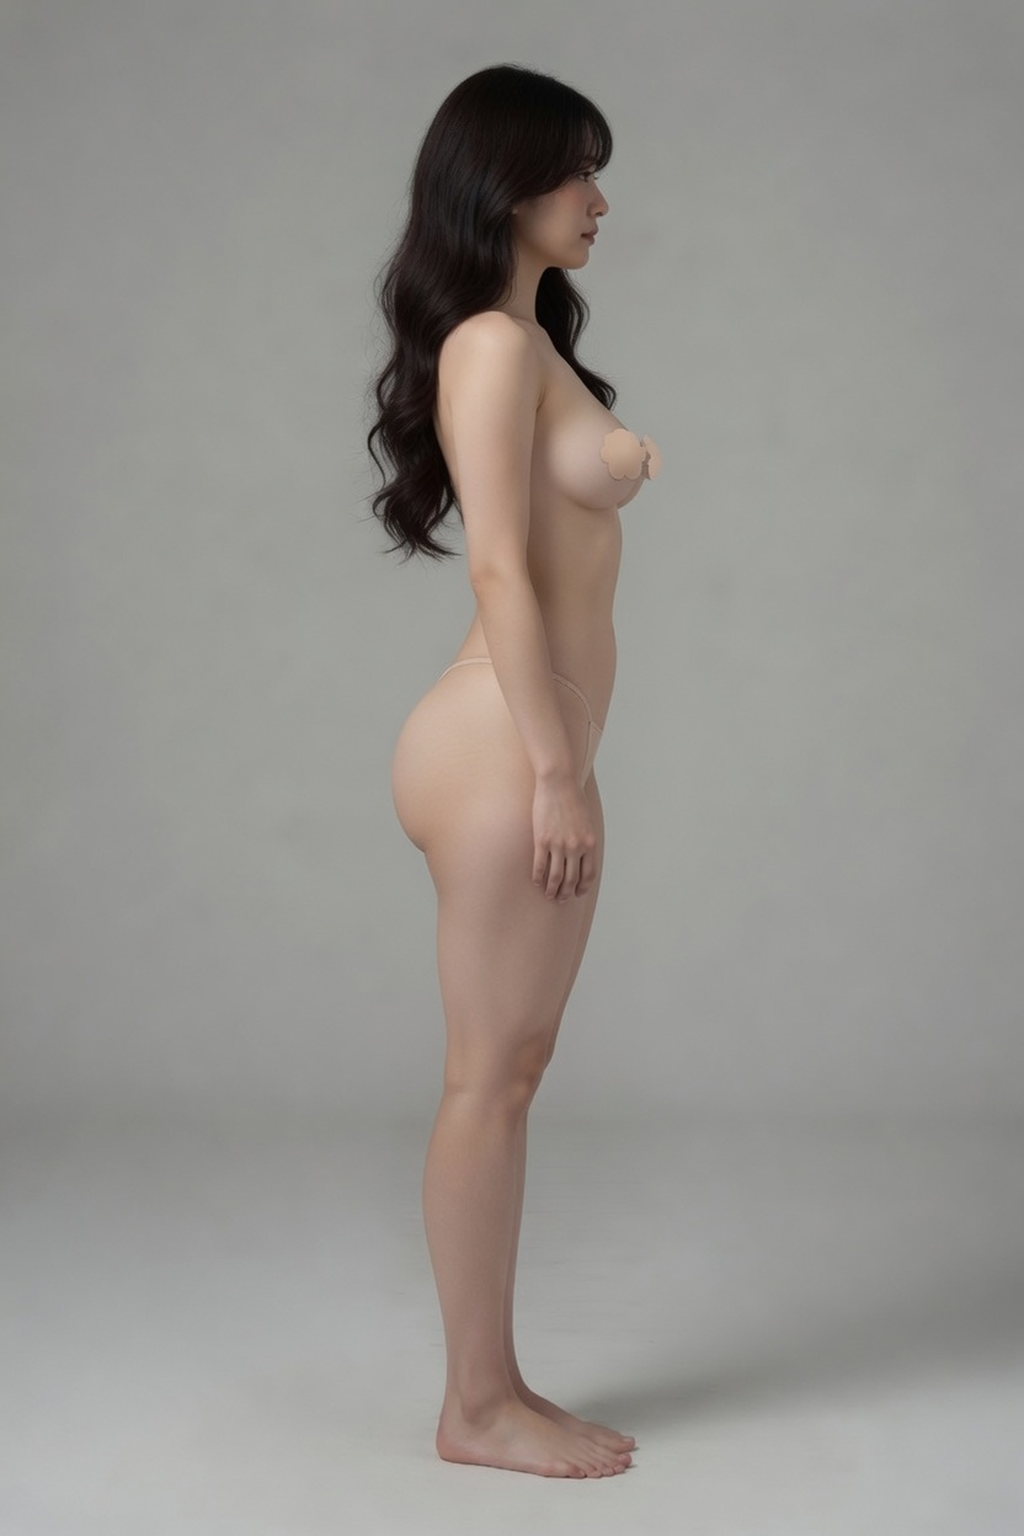
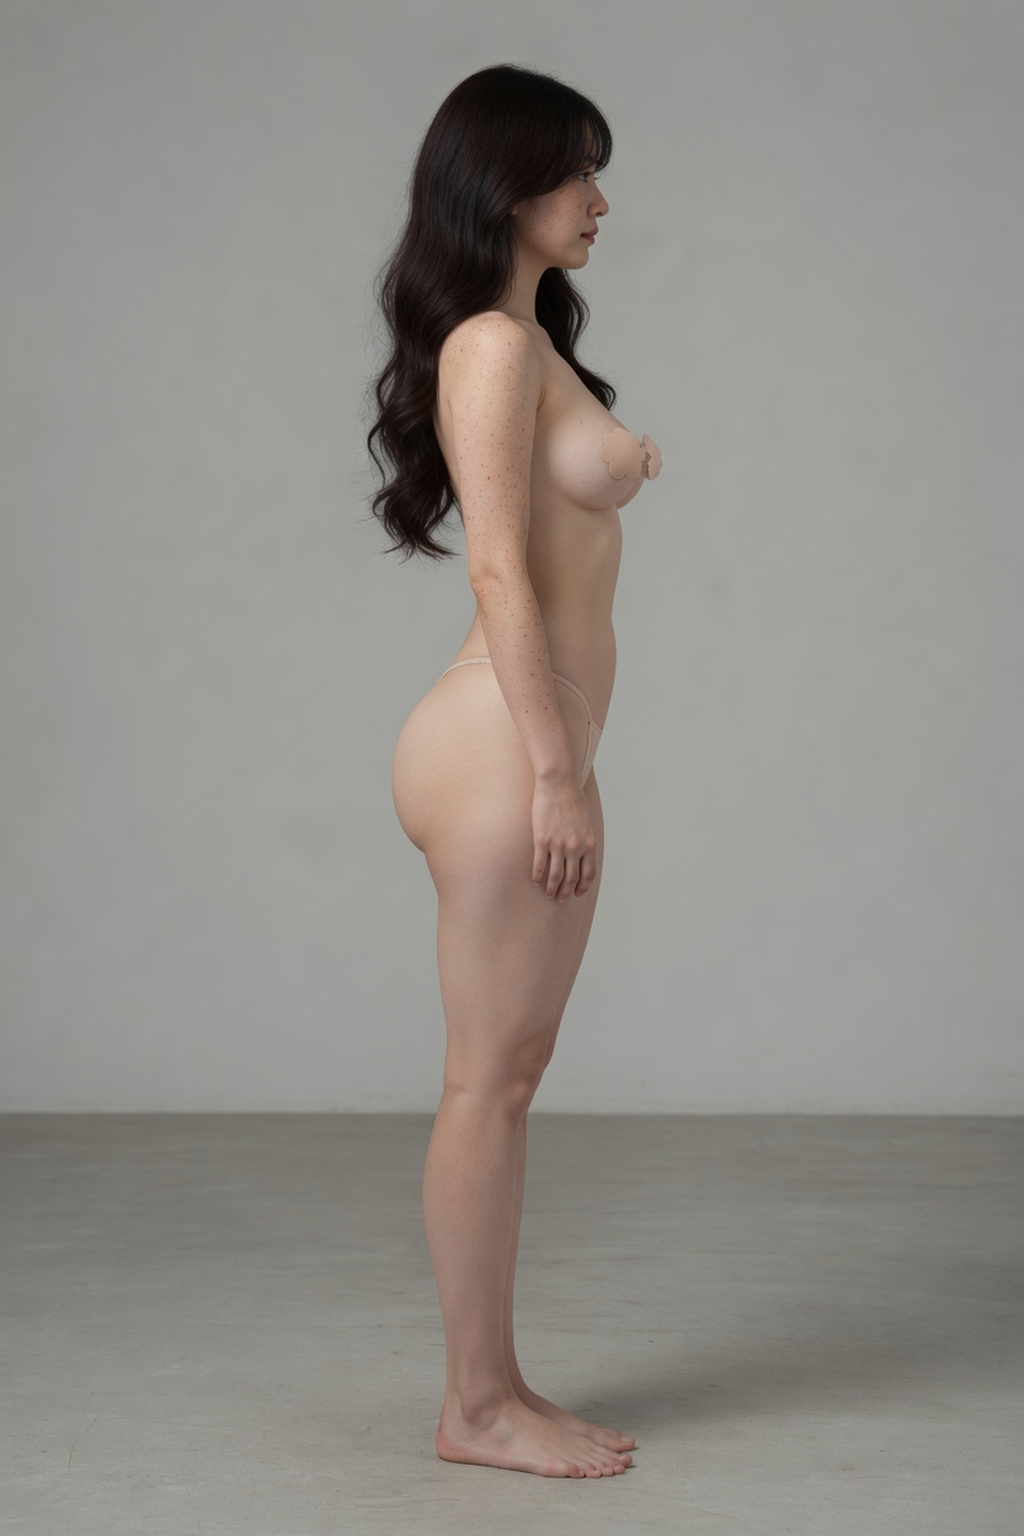
assets: photoreal refine body croquis — same model, pasties+thong
Raise skin texture, studio light, and fabric realism on identity-locked
hourglass 8-angle set and all five shape fronts; partial angle refine for
other shapes. Document photoreal refine prompt in playbook §7.

Changed region(s): [[0.0, 0.7188, 1.0, 1.0]]

diff --git a/docs/BODY-AVATAR-IMAGE-PROMPTS.md b/docs/BODY-AVATAR-IMAGE-PROMPTS.md
@@ -107,17 +107,35 @@ Combine: use the body pose, camera angle, pasties and thong from the first image
 
 ---
 
-## 7. 精修时建议操作顺序
+## 7. 写实精修（2026-08-03 验证成功）
 
-1. 只动一张金标准 `yaw000`（脸/光照/乳贴形状/丁字裤裁切）  
-2. 验收：脸 = 原模特；装 = 仅乳贴+丁字裤；灰棚一致  
-3. 再 fan-out：体型 → 角度 → 组合补缺  
-4. 入库名：`croquis_{hourglass\|pear\|apple\|rectangle\|invertedTriangle}_yaw{000…315}.png`（1024×1536）  
+在**已锁同人 + pastie/thong** 的单帧上做 realism pass（不要换装、不要换人）：
+
+```text
+Photoreal fashion-catalog refine of THIS exact same frame only — keep pose, camera angle, face, hair, pasties, and thong identical. Increase realism: natural skin texture with subtle pores and freckles, believable soft studio lighting and ground contact shadow, realistic fabric of matte adhesive pasties and thin nude thong, fine hair strands, no plastic AI smoothness, sharp full-body e-commerce photo on seamless gray. Same person, same minimal basewear.
+```
+
+同人改体型时带上写实锚点：
+
+```text
+Same exact photoreal woman (same face, freckles, hair, skin texture) wearing only skin-tone pasties and thin nude thong. Soft gray studio, full length. Keep pasties and thong and photoreal quality. Only change body proportions to {shape}: {note}. Front facing camera.
+```
+
+**注意**：侧/后角 refine 偶发 moderated；失败则保留上一版同人帧，勿回退到 bandeau 或新人脸。
+
+---
+
+## 8. 精修时建议操作顺序
+
+1. 只动一张金标准 `yaw000`（写实 pass / 脸/光/乳贴/丁字裤）  
+2. 验收：脸 = 原模特；装 = 仅乳贴+丁字裤；肤质写实；灰棚一致  
+3. 再 fan-out：体型（§3）→ 角度（§4）→ 组合补缺（§5）→ 各帧 realism pass（§7）  
+4. 入库名：`croquis_{hourglass|pear|apple|rectangle|invertedTriangle}_yaw{000…315}.png`（1024×1536）  
 5. legacy 正面：`croquis_{shape}.png` = 对应 `yaw000` 拷贝  
 
 ---
 
-## 8. 资源与代码挂点
+## 9. 资源与代码挂点
 
 - 资源：`Packages/ClosetUI/.../Resources/BodyAvatar/`  
 - 命名 API：`BodyAvatarAsset.croquisName(for:yaw:)`  
@@ -126,6 +144,6 @@ Combine: use the body pose, camera angle, pasties and thong from the first image
 
 ---
 
-## 9. 一句话记忆
+## 10. 一句话记忆
 
 **装用 gen 过审 → 脸用 transfer 锁回 → 往后只 edit 同人；永远乳贴+丁字裤，永不裸 gen 新人。**
